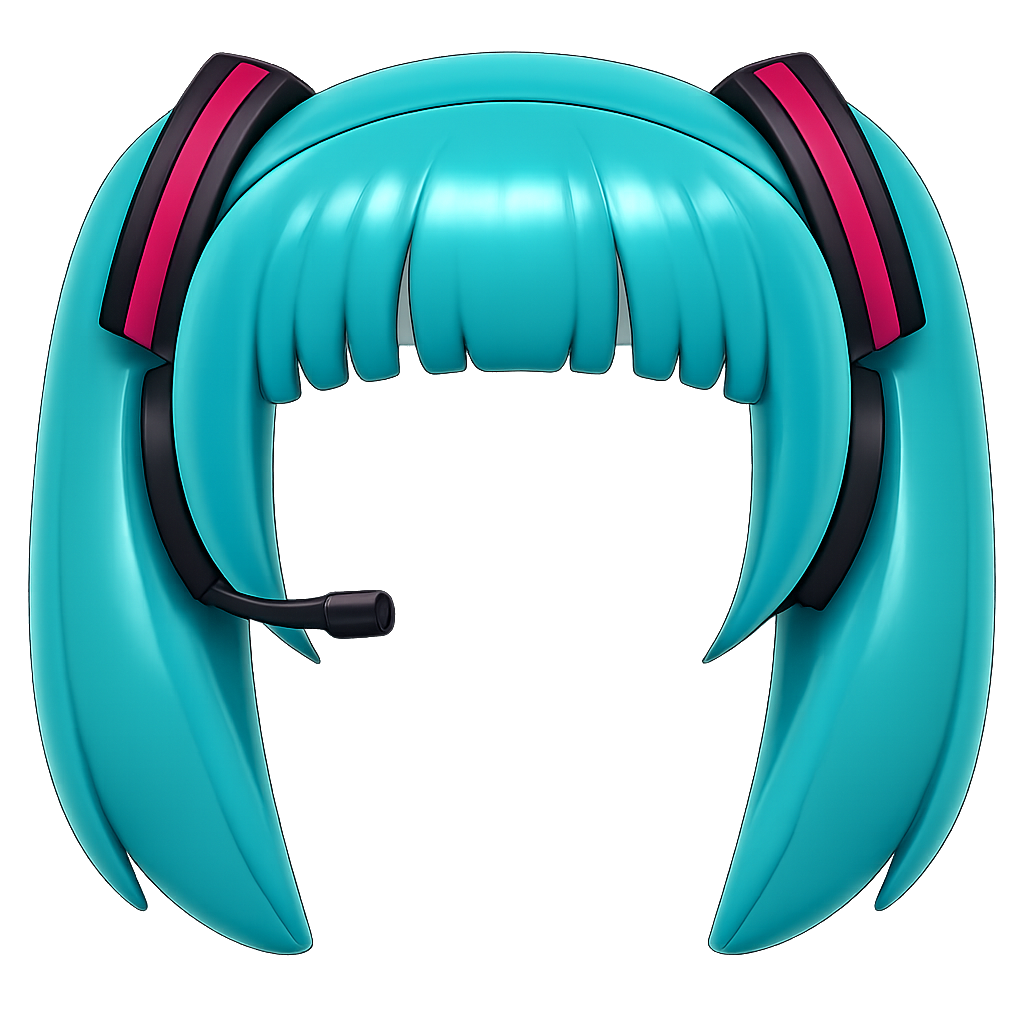
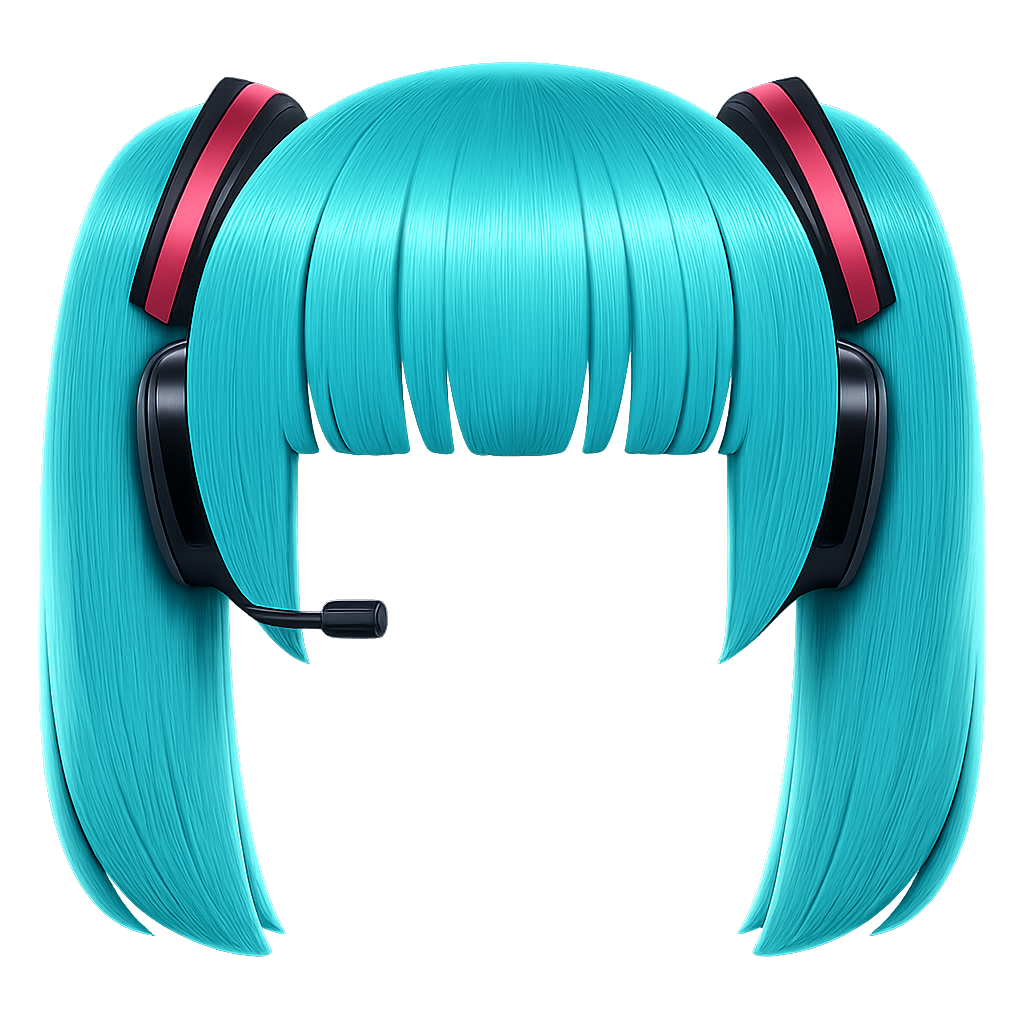
Miku: flequillo más largo, 39% menos pelo negro a la vista
Tres intentos, y lo que destrabó fue dejar de mirar y MEDIR. Los números:
el flequillo negro de la niña llega hasta el 38.2% de su cuadro y el
turquesa desplegado tapaba hasta el 23.2% — faltaban 15 puntos, no "un
poco".

Con eso quedó claro que el anchor no servía: bajar la capa tapa el negro
de abajo pero destapa el de arriba, y el total de negro visible SUBE de
18k a 29k píxeles. Había que alargar el flequillo dentro de su propia
imagen.

De tres prompts, el que ganó es el que da la longitud como PROPORCIÓN de
la pieza ("el flequillo ocupa el 45% superior de la altura total") en vez
de describirla ("largo", "que cubra la frente"). Mismo patrón que ya había
aparecido con la cobertura lateral: al modelo hay que darle una medida,
no un adjetivo.

Resultado: tapa hasta el 27.7% y el pelo negro visible baja de 24.975 a
15.273 píxeles. Queda una línea fina, no la banda que había.

diff --git a/sw.js b/sw.js
@@ -1,6 +1,6 @@
 // Service worker: cache the app shell so Gugugaga works offline
 // Bump CACHE whenever the shell changes — activate() drops every older cache.
-const CACHE = "gugugaga-v16";
+const CACHE = "gugugaga-v17";
 const ASSETS = [
   "./",
   "./index.html",

diff --git a/tools/gen_art.py b/tools/gen_art.py
@@ -235,29 +235,33 @@ def _recipes():
     r["head-miku"] = {
         "refs": ["head-penguin.png", "../../miku-referencias/e3b404m7t5.png.webp"],
         "prompt": (
-            "Using the FIRST attached image as the reference, generate ONLY THE FRONT "
-            "PART of a turquoise hair wig, to be placed OVER a character's face. "
-            "It consists of: a LONG straight turquoise fringe that hangs DOWN and covers "
-            "the ENTIRE forehead, its bottom edge reaching all the way down to just above "
-            "the eyebrows — the fringe must overlap well into the top of the face opening, "
-            "not sit above it, so that no forehead and no hair of another colour is left "
-            "visible between the fringe and the eyes; and TWO THICK SIDE LOCKS of turquoise hair, "
-            "one on each side of the face, hanging straight DOWN PAST THE CHIN. "
-            "CRITICAL: each side lock must be as wide and reach as far out to the side as "
-            "the corresponding side of the hood in the reference image, at every height — "
-            "they have to cover the whole area between the face and the hood's outer edge, "
-            "so no hair of another colour could show at the sides or under the jaw. "
-            "The face area between the fringe and the two side locks stays EMPTY and "
-            "transparent — that is where the face shows through — and that opening must be "
-            "in the same position and the same size as the reference hood's face opening. "
-            "Also include a black futuristic headset over the ears with a hot-pink stripe "
-            "and a small microphone arm curving toward the mouth. "
+            "Using the FIRST attached image as the reference, generate ONLY THE FRONT PART "
+            "of a turquoise hair wig, to be placed OVER a character's face. "
+            "It has TWO parts, and BOTH are equally important. "
+            "(1) TWO THICK SIDE LOCKS of turquoise hair, one on each side of the face, "
+            "hanging straight down PAST THE CHIN. Each side lock must be as wide and reach "
+            "as far out to the side as the corresponding side of the hood in the reference "
+            "image, at every height, covering the whole area between the face and the "
+            "hood's outer edge. "
+            "(2) A VERY LONG, THICK, HEAVY BLUNT FRINGE joining the two side locks across "
+            "the top. This is the part that usually comes out too short, so make it "
+            "clearly longer than feels natural: it starts at the very top of the piece and "
+            "hangs straight DOWN, covering the whole forehead AND the entire UPPER HALF of "
+            "the reference hood's face opening, stopping only at eyebrow level. "
+            "As a proportion: the fringe alone must take up about the top 45% of the total "
+            "height of the whole piece. The remaining opening below it is a wide, short "
+            "horizontal gap — only eyes, nose and mouth fit in it, no forehead at all. "
+            "Between the fringe and the two side locks there is an opening — smaller than "
+            "the hood's because the fringe hangs into it — and that area stays EMPTY and "
+            "transparent, because that is where the face shows through. "
             "Do NOT draw the back or the top-back of the hair, and do NOT draw twintails: "
             "those are a separate image. "
+            "Include a black futuristic headset over the ears with a hot-pink stripe and a "
+            "small microphone arm curving toward the mouth. "
             "Use the SECOND attached image only as a colour and style guide. "
-            "No face, no head, no character, no body. "
-            "3D Nendoroid figurine style, glossy toy look, soft frontal lighting. "
-            "Isolated object, centered, transparent background, no shadow, no text."
+            "No face, no head, no character, no body. 3D Nendoroid figurine style, glossy "
+            "toy look, soft frontal lighting. Isolated object, centered, transparent "
+            "background, no shadow, no text."
         ),
     }
     r["body-miku"] = {
